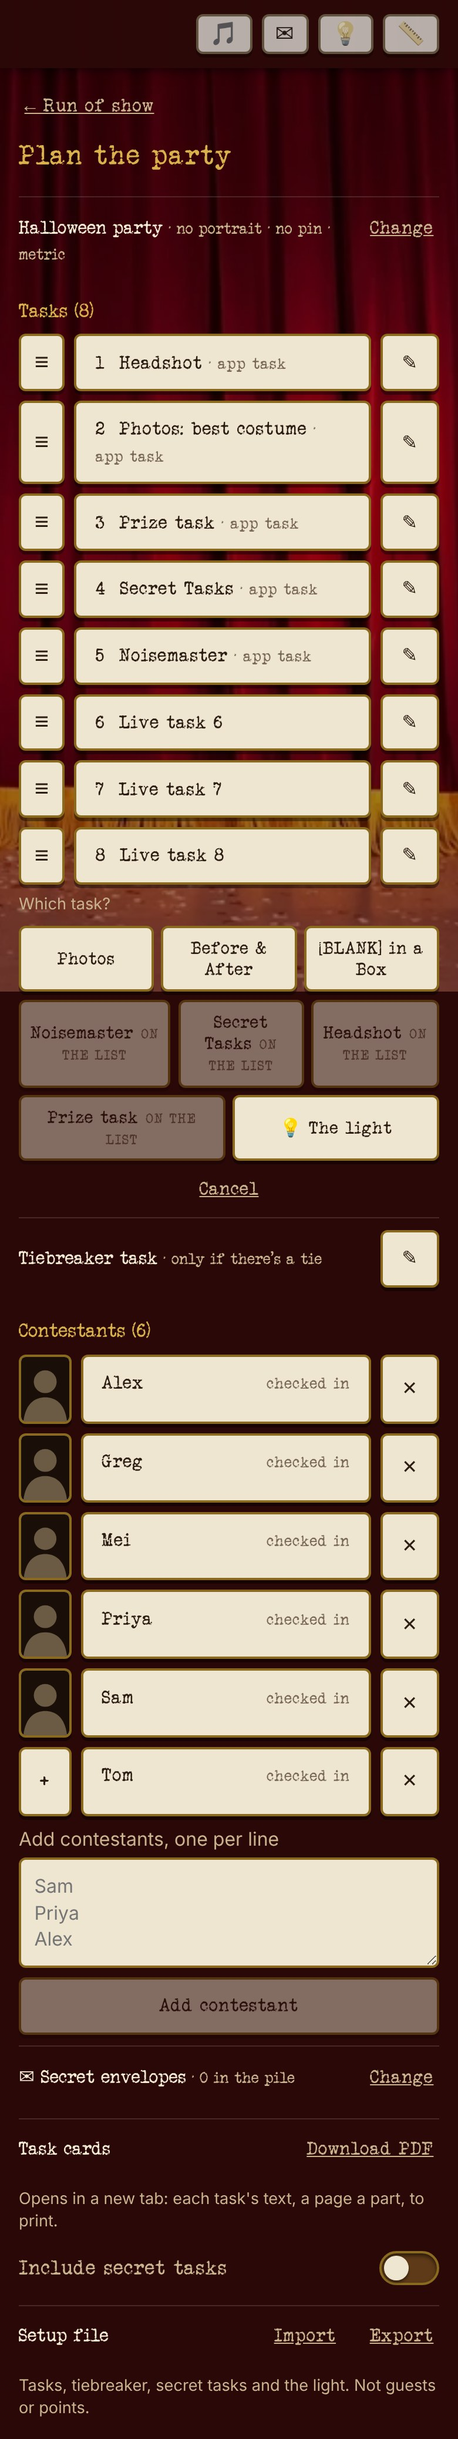
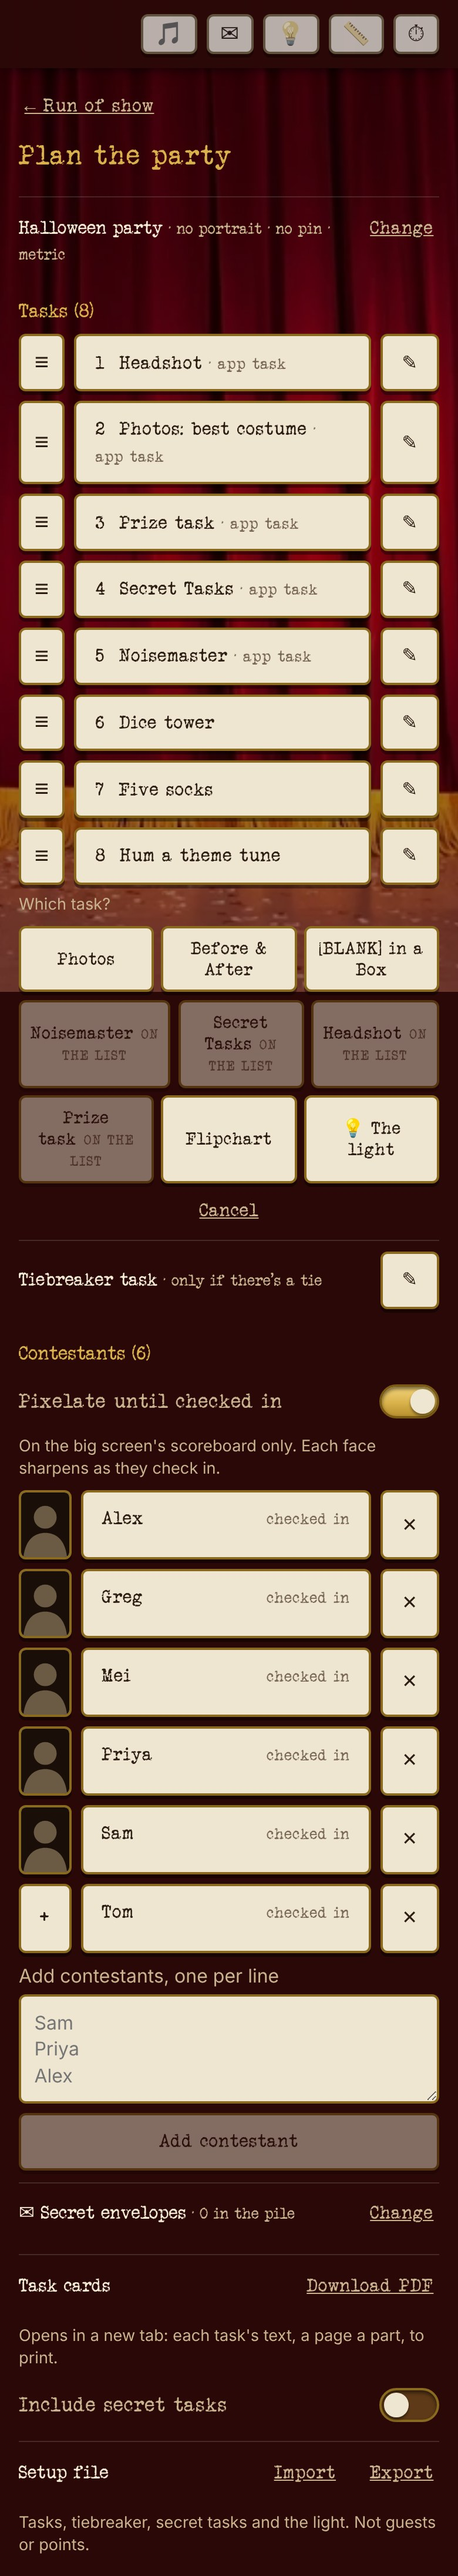
Give Plan the party's live tasks real names in the shots
Re-shoot the lineup, the iPad view and the ✎ page from the ABCD party with
Dice tower, Five socks and Hum a theme tune in place of Live task 6-8, so the
list and the task page agree. Adds task-edit-scoring to shoot.mjs.

Claude-Session: https://claude.ai/code/session_01K59ENqKyTJWS9YMrrCRzp3

diff --git a/docs/guest-shots/shots.tsx b/docs/guest-shots/shots.tsx
@@ -85,6 +85,12 @@ function build() {
     t5: { order: 5, game: "noisemaster" },
   };
   for (let i = 6; i <= 8; i++) tasks[`t${i}`] = { order: i, name: `Live task ${i}` };
+  // Plan the party shows the lineup to a friend, so its live tasks have real names: the ones played elsewhere tonight.
+  if (shot.startsWith("host-plan")) {
+    tasks.t6 = { order: 6, name: "Dice tower" };
+    tasks.t7 = { order: 7, name: "Five socks" };
+    tasks.t8 = { order: 8, name: "Hum a theme tune" };
+  }
   // A live task with two parts: an Individual one, then a Team one.
   if (shot.includes("parts")) tasks.t6 = {
     order: 6, name: "Dice tower", type: "Individual",
@@ -180,7 +186,7 @@ function build() {
     case "host-parts-phones": set("display", { step: "tasktext", task: "t6" }); set("phoneText", { task: "t6", part: 1 }); set("begun", true); break;
     case "task-parts-phone": picked(); q.set("later", "1"); set("phoneText", { task: "t6", part: 1 }); set("begun", true); break;
     // A live task with one part: the same two rows, "The task" in place of Part 1.
-    case "host-plan": case "host-plan-crop": case "host-plan-cropped": case "host-crop": case "host-plan-add": case "host-plan-ipad": case "host-adhoc": set("begun", true); break;
+    case "host-plan": case "host-plan-crop": case "host-plan-cropped": case "host-crop": case "host-plan-add": case "host-plan-ipad": case "host-plan-edit": case "host-adhoc": set("begun", true); break;
     // Photos: best costume is on, and three entries are in.
     case "host-app-game":
       picked(); task("photos"); g.photos!.task = "t2"; set("begun", true);
@@ -346,7 +352,7 @@ if (joined && shot.startsWith("checkin")) {
   (session.scoreboard as { contestants: Record<string, { uid?: string }> }).contestants[who]!.uid = who;
 }
 if (shot === "checkin-list" || shot === "checkin-confirm") localStorage.setItem("ba.playCode", shot === "checkin-list" ? "" : "");
-if (shot.startsWith("host-")) { localStorage.setItem("ba.remoteCode", CODE); localStorage.setItem("ba.hostTab", JSON.stringify(shot === "host-run" || shot === "host-run-transition" || shot === "host-run-transition-missing" || shot === "host-haul" || shot === "host-arrivals" || shot === "host-reset" ? { view: "show" } : shot === "host-app-game" ? { view: "task", task: "t2" } : shot === "host-sting" || shot === "host-replay" ? { view: "task", task: "t6" } : shot === "host-edit-transition" || shot === "host-edit-transition-try" ? { view: "edit", task: "t6" } : shot === "host-adhoc" ? { view: "task", task: "adhoc" } : shot === "host-secret" ? { view: "tasks" } : shot === "host-secret-title" ? { view: "task", task: "t4" } : shot === "host-secret-edit" ? { view: "edit", task: "t4" } : shot === "host-flipchart-edit" ? { view: "edit", task: "t8" } : shot.startsWith("host-flipchart") ? { view: "task", task: "t8" } : shot === "host-parts-edit" ? { view: "edit", task: "t6" } : shot.startsWith("host-parts") ? { view: "task", task: "t6" } : shot.startsWith("host-onepart") ? { view: "task", task: "t7" } : shot.startsWith("host-plan") ? { view: "plan" } : shot === "host-crop" ? { view: "crop", contestant: "greg" } : shot === "host-prize" || shot === "host-points" ? { view: "task", task: "t3" } : shot === "host-photos" ? { view: "task", task: "t2" } : shot === "host-headshot" ? { view: "task", task: "t1" } : shot === "host-beforeafter" ? { view: "task", task: "t6" } : shot === "host-box" ? { view: "task", task: "t7" } : shot === "host-light" || shot === "host-light-change" ? { view: "light" } : { view: "task", task: "t5" })); }
+if (shot.startsWith("host-")) { localStorage.setItem("ba.remoteCode", CODE); localStorage.setItem("ba.hostTab", JSON.stringify(shot === "host-run" || shot === "host-run-transition" || shot === "host-run-transition-missing" || shot === "host-haul" || shot === "host-arrivals" || shot === "host-reset" ? { view: "show" } : shot === "host-app-game" ? { view: "task", task: "t2" } : shot === "host-sting" || shot === "host-replay" ? { view: "task", task: "t6" } : shot === "host-edit-transition" || shot === "host-edit-transition-try" ? { view: "edit", task: "t6" } : shot === "host-adhoc" ? { view: "task", task: "adhoc" } : shot === "host-secret" ? { view: "tasks" } : shot === "host-secret-title" ? { view: "task", task: "t4" } : shot === "host-secret-edit" ? { view: "edit", task: "t4" } : shot === "host-flipchart-edit" ? { view: "edit", task: "t8" } : shot.startsWith("host-flipchart") ? { view: "task", task: "t8" } : shot === "host-parts-edit" ? { view: "edit", task: "t6" } : shot.startsWith("host-parts") ? { view: "task", task: "t6" } : shot.startsWith("host-onepart") ? { view: "task", task: "t7" } : shot === "host-plan-edit" ? { view: "edit", task: "t8" } : shot.startsWith("host-plan") ? { view: "plan" } : shot === "host-crop" ? { view: "crop", contestant: "greg" } : shot === "host-prize" || shot === "host-points" ? { view: "task", task: "t3" } : shot === "host-photos" ? { view: "task", task: "t2" } : shot === "host-headshot" ? { view: "task", task: "t1" } : shot === "host-beforeafter" ? { view: "task", task: "t6" } : shot === "host-box" ? { view: "task", task: "t7" } : shot === "host-light" || shot === "host-light-change" ? { view: "light" } : { view: "task", task: "t5" })); }
 // The ⏱ clock's shots open on ⏱ (the task page for one), with the task they came from behind it.
 if (/^host-(cd|sw)-/.test(shot)) {
   localStorage.setItem("ba.hostTab", JSON.stringify(shot === "host-cd-task" ? { view: "task", task: "t6" } : { view: "clock" }));

diff --git a/docs/screens/README.md b/docs/screens/README.md
@@ -130,12 +130,12 @@ Scoreboard (taken on 2026-10-12, from the real components with made-up sessions;
 | `scoreboard-host-points-override.jpg` | Overriding a measured point: Mei's points open the chips 1 to 5 (no "…"), "Automatic: 4 for 2nd"; Sam's 3 was set by hand (✎) (2026-10-17) |
 | `scoreboard-host-points-measured-ipad.jpg` | The measured page on an iPad in landscape: DQ right after "Priya now 24", the box keeps its width, "+1" right after the points (2026-10-17) |
 | `scoreboard-host-points-noisemaster.jpg` | Noisemaster's points: the soundboard's times, still whole with the +1 column, "↺ 2" restarts, "Fastest wins", Alex DQ'd for giving up, Jo's bonus, Tom "not played" (2026-10-17) |
-| `task-edit-scoring.jpg` | A task's ✎ page: its own page with "← Plan the party", the name, the note and "Scoring" always there, then "+ Task text", "+ Song" and "+ 📏 Unit" for what's not set yet, gold Save, Cancel, "Remove this task" (2026-10-18) |
+| `task-edit-scoring.jpg` | A task's ✎ page, on the live task "Hum a theme tune": its own page with "← Plan the party", the name, the note and "Scoring" always there, then "+ Task text", "+ Song", "+ Transition" and "+ 📏 Unit" for what's not set yet, gold Save, Cancel, "Remove this task" (2026-10-22, from the ABCD party) |
 | `task-edit-db-meter.jpg` | "+ 📏 Unit" opened on a task with none: 🔊 dB meter beside 🎲 Dice under "Measured in", one open at a time with Done (2026-10-18) |
 | `task-edit-db-meter-on.jpg` | A dB task's ✎ page with its unit section open: 🔊 dB meter pressed, "🔇 DQ if louder than" set to 90 dB, Done and "✕ Remove unit"; the song above it is one summary line (2026-10-18) |
 | `scoreboard-host-points-db-dq.jpg` | A dB task, highest wins without going over 100: Priya's 101.2 struck through with "over 100" under her 0, the others moved up, "over 100 dB is a DQ" in the status line, gold "Done: back to Run of show →" (2026-10-18) |
 | `scoreboard-host-points-db-lo.jpg` | A quietest-wins dB task: the LO chip under Mei's box while it's typed in, and Jo's LO in 1st (2026-10-17) |
-| `scoreboard-host-tasks-contestants.jpg` | Plan the party on a wide iPad: the party line across the top, tasks on the left and contestants on the right, each task "· app task" or live, "+ Live task" and "+ App task" (2026-10-19, from the ABCD party) |
+| `scoreboard-host-tasks-contestants.jpg` | Plan the party on a wide iPad: the party line across the top, tasks on the left and contestants on the right, each task "· app task" or live (Dice tower, Five socks, Hum a theme tune), "+ Live task" and "+ App task" (2026-10-22, from the ABCD party) |
 | `headshot-crop-choice.jpg` | Plan the party, Contestants: headshots as tall thumbnails the shape of the scoreboard's window; Greg's (a wide group shot) tapped, opening "Greg's headshot" with Crop, Replace and Cancel in his row (sketch, 2026-10-19, from the ABCD party) |
 | `headshot-crop-page.jpg` | Crop opened on Greg's headshot: "← Plan the party", his whole group shot with the gold window (a dot on each corner to resize it) dragged onto him and the rest dimmed, the scoreboard's gold frame beside it showing the crop, "Back to the middle", gold Save and quiet Cancel (sketch, 2026-10-19, from the ABCD party) |
 | `headshot-crop-saved.jpg` | Back on Plan the party after Save: Greg's tall thumbnail now shows the part of his group shot he cropped to, the others still centred (sketch, 2026-10-19, from the ABCD party) |
@@ -204,7 +204,7 @@ Scoreboard (taken on 2026-10-12, from the real components with made-up sessions;
 | `host-game-task-song.jpg` | An app task's page with its task's song strip under the status line (2026-10-18) |
 | `run-of-show-host-playing.jpg` | The run of show during a game: "Now playing: Photos: best costume · Open →" |
 | `run-of-show-host-play-a-game.jpg` | "Play a task": a task that's not on the list, the same page with no number and no points (2026-10-19, from the ABCD party) |
-| `run-of-show-host-add-game.jpg` | "+ App task" on Plan the party, "Which task?": Noisemaster, Secret Tasks, Headshot and Prize task greyed out as "on the list", Photos still offered (2026-10-19, from the ABCD party) |
+| `run-of-show-host-add-game.jpg` | "+ App task" on Plan the party, "Which task?": Noisemaster, Secret Tasks, Headshot and Prize task greyed out as "on the list", Photos still offered; the live tasks named Dice tower, Five socks and Hum a theme tune (2026-10-22, from the ABCD party) |
 | `host-setup-file.jpg` | The "Setup file" row at the bottom of Plan the party: Import and Export links on the right and "Tasks, tiebreaker, secret tasks and the light. Not guests or points." under it (2026-10-18). Rendered from the real row's markup |
 | `plan-host-task-cards.jpg` | Plan the party's bottom: the "Task cards" row with Download PDF, "Include secret tasks" switched on and the "8 to cut" / "4 to fold" radio row, above Setup file (2026-10-18) |
 | `task-cards-pdf-page.jpg` | The downloaded PDF's first page: a task's Individual part, heading centred in capitals, the paragraphs, the block centred down a white Letter page (2026-10-18) |
